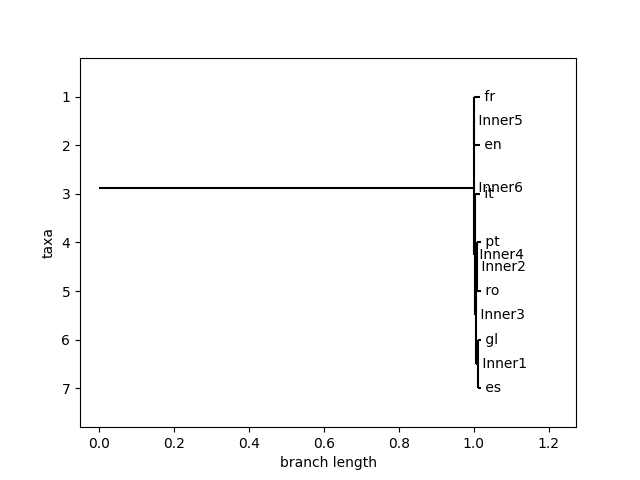
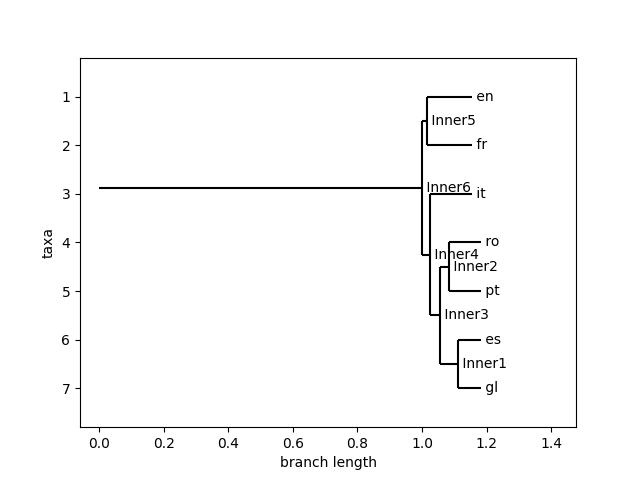
Correcao calculo distancia

diff --git a/treemaker.py b/treemaker.py
@@ -41,10 +41,42 @@ def matrixmaker(path, nword):
     return distance_matrix           
 
 if __name__ == "__main__":
+    csv_directory = "resultados1200/"
+
+    distance_matrix = matrixmaker(csv_directory, 1192)
+    with open(csv_directory+"matrix.txt", 'w') as f:
+        sys.stdout = f
+        print (distance_matrix)
+
+    # Use o construtor de árvore de distância para criar a árvore filogenética
+    constructor = DistanceTreeConstructor()
+    utree = constructor.upgma(distance_matrix)
+
+    # Salve a árvore em um arquivo no formato Newick
+    output_tree_file = "phylogenetic1200_utree.xml"
+    Phylo.write(utree, output_tree_file, "nexml")
+    
+    tree = Phylo.read("phylogenetic1200_utree.xml", "nexml")
+    tree.ladderize() 
+    Phylo.draw(tree, do_show=False)
+    plt.savefig(csv_directory + "utree1200.png")
+    plt.close()
+
+    njtree = constructor.nj(distance_matrix)
+
+    output_tree_file = "phylogenetic1200_njtree.xml"
+    Phylo.write(njtree, output_tree_file, "nexml")
+
+    tree = Phylo.read("phylogenetic1200_njtree.xml", "nexml")
+    tree.ladderize()  
+    Phylo.draw(tree, do_show=False)
+    plt.savefig(csv_directory + "njtree1200.png")
+    plt.close()
+
     for i in range(10):
         csv_directory = f'resultadossplit/{i}/'
 
-        distance_matrix = matrixmaker(csv_directory, 1192)
+        distance_matrix = matrixmaker(csv_directory, 119)
 
         with open(csv_directory+"matrix.txt", 'w') as f:
             sys.stdout = f

diff --git a/alinhamento.py b/alinhamento.py
@@ -38,12 +38,17 @@ def process_csv(input_csv_file, output_directory):
                         lower = min(len(col1), len(col2))
 
                                             #tirar negativo              normalizar
-                        dnormal = 1 - ((alignment_score + lower/2) / (3 * lower / 2))
+                        dnormal = 1 - ((alignment_score + (lower/2)) / (3 * (lower / 2)))
                                                 
                         csv_writer.writerow([col1, col2, dnormal])                
                 
 
 if __name__ == "__main__":
+    input_csv_file = "maisfreq1200.csv"  # Substitua pelo nome do seu arquivo CSV de entrada
+    output_directory = "resultados1200"  # Substitua pelo diretório onde deseja salvar os resultados
+
+    process_csv(input_csv_file, output_directory)
+
     for i in range(10):
         input_csv_file = os.path.join(f'resultadossplit/{i}', f'split_{i}.csv')  # Substitua pelo nome do seu arquivo CSV de entrada
         output_directory = f'resultadossplit/{i}'  # Substitua pelo diretório onde deseja salvar os resultados
